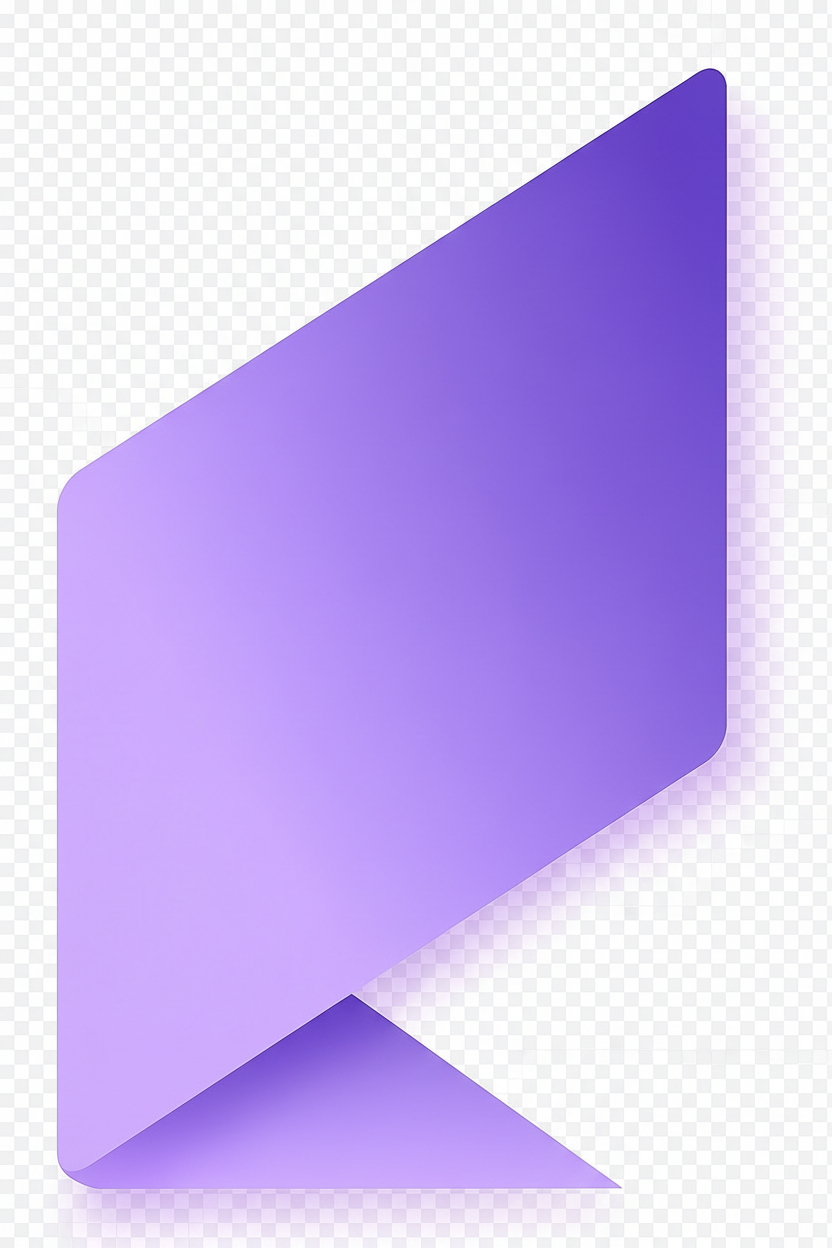
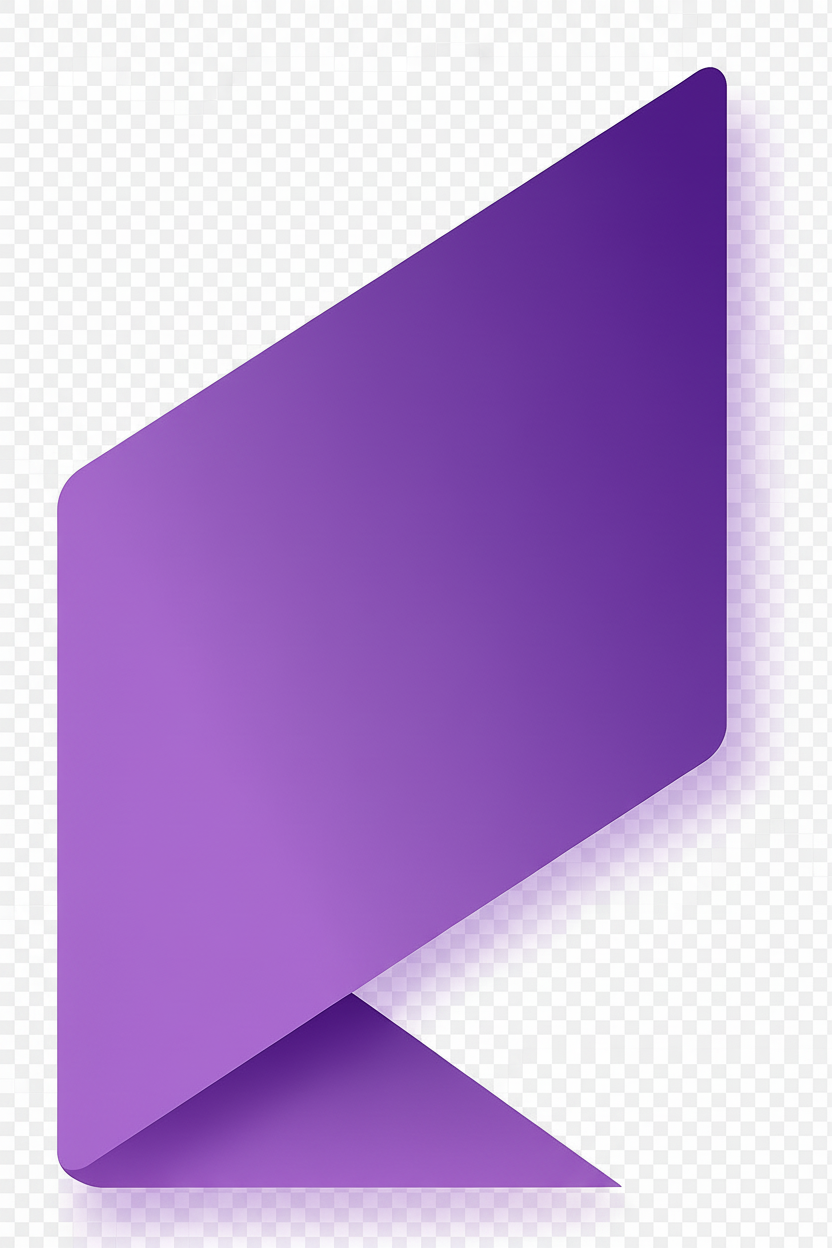
Changes

diff --git a/index.html b/index.html
@@ -6,9 +6,9 @@
     <title>AI-powered document insights</title>
     <meta name="description" content="A Tenancy agreement now has a voice. Transforming how you work with AI" />
     <meta name="author" content="Hobson AI" />
-    <link rel="icon" type="image/png" sizes="512x512" href="/favicon-512x512.png?v=6" />
-    <link rel="icon" type="image/png" href="/favicon.png?v=6" />
-    <link rel="apple-touch-icon" sizes="180x180" href="/apple-touch-icon.png?v=6" />
+    <link rel="icon" type="image/png" sizes="512x512" href="/favicon-512x512.png?v=7" />
+    <link rel="icon" type="image/png" href="/favicon.png?v=7" />
+    <link rel="apple-touch-icon" sizes="180x180" href="/apple-touch-icon.png?v=7" />
     <link rel="preload" href="/src/assets/owl-mascot-chat.png" as="image" />
     <link rel="preload" href="/src/assets/owl-chat-bubble.png" as="image" />
     <link rel="preconnect" href="https://fonts.googleapis.com" />
